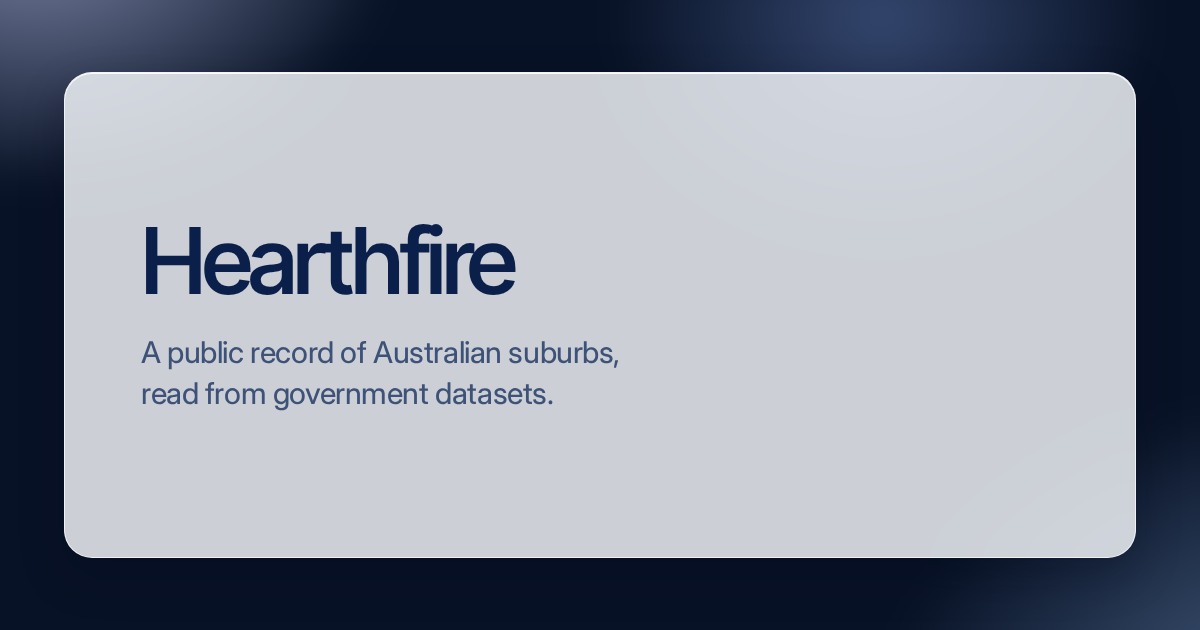
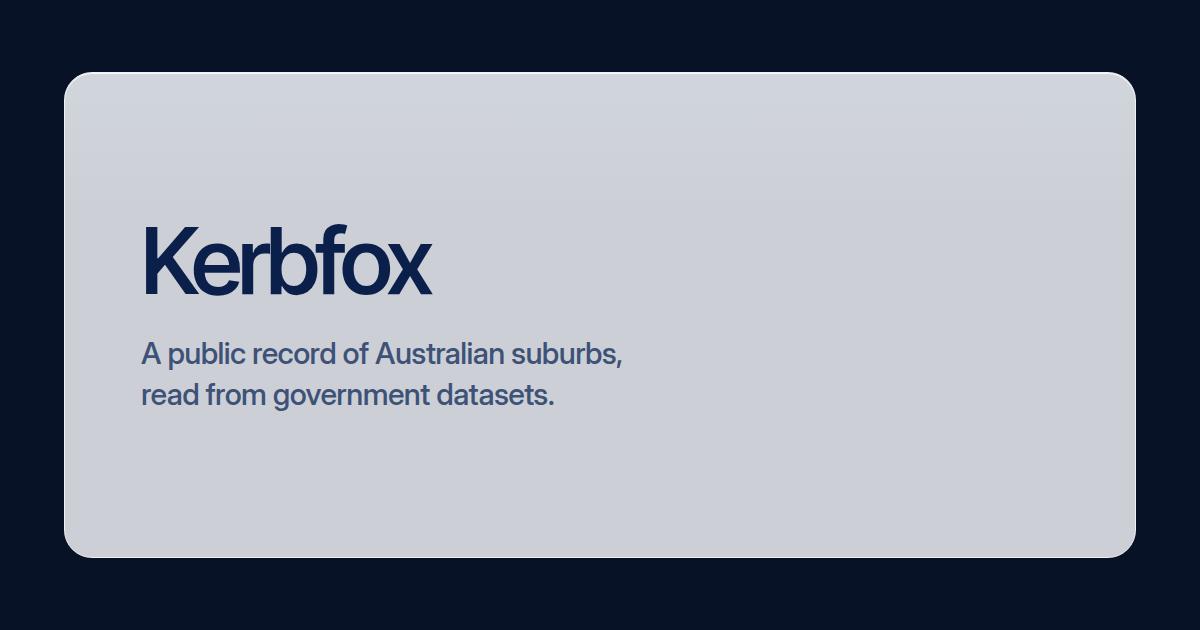
Rename the product to Kerbfox.
The display name, npm package, share card, and repository URL now use Kerbfox. Hearthfire is retired in the brand guard.

diff --git a/src/brand.test.ts b/src/brand.test.ts
@@ -3,8 +3,11 @@ import path from "node:path";
 import { describe, expect, it } from "vitest";
 
 const ALLOWED_NAME = new Set(["src/config/site.ts", "package.json", "README.md", "docs/design.md"]);
-const namePattern = new RegExp(["hearth", "fire"].join(""), "i");
-const retiredPattern = new RegExp(`${["Suburb", "IQ"].join("")}|${["Aus", "Score"].join("")}`, "i");
+const namePattern = new RegExp(["kerb", "fox"].join(""), "i");
+const retiredPattern = new RegExp(
+  `${["Suburb", "IQ"].join("")}|${["Aus", "Score"].join("")}|${["hearth", "fire"].join("")}`,
+  "i",
+);
 
 const SKIP_DIRS = new Set([
   "node_modules",

diff --git a/src/config/site.ts b/src/config/site.ts
@@ -1,6 +1,6 @@
 /** The only display name in the interface. Rename the product here. */
 export const site = {
-  name: "Hearthfire",
+  name: "Kerbfox",
   description: "A public record of Australian suburbs, read from government datasets.",
 } as const;
 

diff --git a/README.md b/README.md
@@ -1,6 +1,8 @@
-# Suburb record
+# Kerbfox
 
-A national shell for an Australian suburb record. Search, a map, a long suburb page, councils, ranked lists, a four-place compare, and a match page with personal weights. The product name lives in [`src/config/site.ts`](src/config/site.ts). The npm package name is the only other place it is set.
+A national shell for an Australian suburb record. Search, a map, a long suburb page, councils, ranked lists, a four-place compare, and a match page with personal weights. The display name lives in [`src/config/site.ts`](src/config/site.ts). The npm package name is `kerbfox`.
+
+Source: https://github.com/vsanghani/kerbfox
 
 No suburb rows, geometries, or scraped tables are included. The API returns empty payloads with `dataset_connected: false`. The interface treats that as “not loaded”, which is different from a real zero.
 
